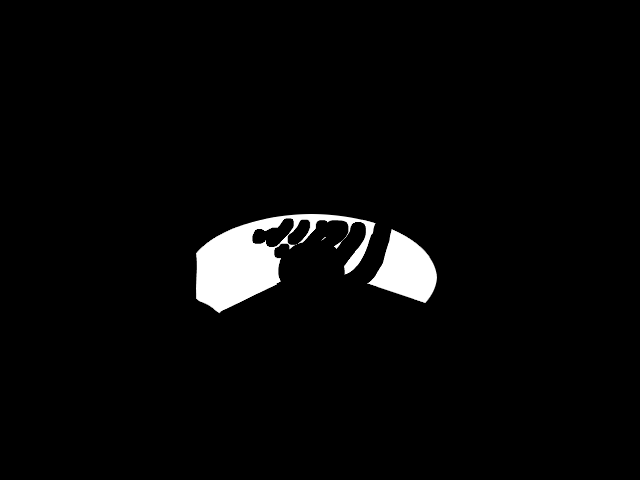
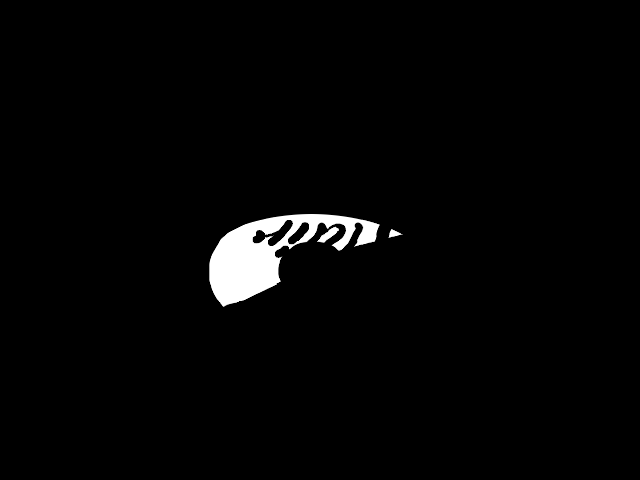
Get reasonably robust dial reading and graph drawing

Changed region(s): [[0.3438, 0.4375, 0.6875, 0.625], [0.2812, 0.5, 0.375, 0.6562]]

diff --git a/python/hq/hardware/flair_pressure.py b/python/hq/hardware/flair_pressure.py
@@ -11,6 +11,7 @@ import os
 import sys
 from math import atan2, degrees
 from subprocess import run
+from random import shuffle
 from time import sleep, time
 from typing import Optional
 from pathlib import Path
@@ -22,7 +23,20 @@ from hq.io_tools import getchar
 CTRL_C = b"\x03"
 BACKSPACE = b"\x7f"
 CLEAR = b"\x0c"
+CURSOR_HOME = "\033[H"
 SPACE = b" "
+
+DIAL_Y_MIN = 214
+DIAL_Y_MAX = 307
+DIAL_X_MIN = 209
+DIAL_X_MAX = 403
+
+ZERO_ANGLE = 189
+NINE_BAR_ANGLE = 40
+DEGREES_PER_BAR = 8
+
+GRAPH_ROWS = 20
+GRAPH_COLS = 60
 
 
 def clear() -> None:
@@ -35,7 +49,12 @@ class FlairPressure:
         Construct the Flair pressure reader
         """
         self.load_dial_mask()
-        self.needle_cetre = np.array((267, 312))
+        self.needle_cetre = np.array((267 - DIAL_Y_MIN, 312 - DIAL_X_MIN))
+        self.pressure_graph = np.full((GRAPH_ROWS + 2, GRAPH_COLS + 2), fill_value="\0")
+        self.pressure_graph[:, 0] = " "
+        self.pressure_graph[1:GRAPH_ROWS:2, 0] = np.arange(9, -1, -1)
+        self.pressure_graph[:, 1] = "|"
+        self.pressure_graph[GRAPH_ROWS, :] = "-"
 
     def capture_frame(self, vid_in: Optional[cv2.VideoCapture] = None) -> np.ndarray:
         """
@@ -91,59 +110,131 @@ class FlairPressure:
                 sleep(interval)
         vid.release()
 
-    def detect_needle_position(self, img: np.ndarray) -> float:
+    def detect_needle_position(self, img: np.ndarray) -> Optional[float]:
         """
         Compute pressure from images of gauge
 
         Returns:
             Current pressure (bar)
         """
+        if img is None:
+            return None
+
         # Convert image to grayscale
-        gray = cv2.cvtColor(src=img, code=cv2.COLOR_BGR2GRAY)
-        cv2.imwrite(filename="/tmp/gray.png", img=gray)
+        # gray = cv2.cvtColor(src=img, code=cv2.COLOR_BGR2GRAY)
+        gray = img[..., 2]  # red channel should minimise red writing visibility
+
+        cropped = gray[DIAL_Y_MIN:DIAL_Y_MAX, DIAL_X_MIN:DIAL_X_MAX, ...]
+
+        # # Decrease contrast
+        # alpha = 0.5
+        # beta = 0
+        # gray = np.clip(gray * alpha + beta, 0, 255).astype(np.uint8)
+
+        equ = cv2.equalizeHist(cropped)
 
         # Blur image to optimise thresholding performance
-        blur = cv2.GaussianBlur(src=gray, ksize=(5, 5), sigmaX=0)
+        # blur = cv2.GaussianBlur(src=gray, ksize=(13, 13), sigmaX=0)
+        blur = cv2.GaussianBlur(src=equ, ksize=(5, 5), sigmaX=0)
 
-        # Increase contrast
-        alpha = 1.2
-        beta = -20
-        blur = np.clip(blur * alpha + beta, 0, 255).astype(np.uint8)
-        cv2.imwrite(filename="/tmp/contrast_blur.png", img=blur)
+        # canny = cv2.Canny(image=equ, threshold1=30, threshold2=100)
+        # canny[self.dial_mask < 255] = 0
+
+        # lines = cv2.HoughLines(
+        #     canny,  # image
+        #     1,  # rho
+        #     np.pi / 360,  # theta
+        #     5,  # threshold
+        #     None,  # srn
+        #     0,  # stn
+        #     0,  # min_theta
+        # )
+
+        # if lines is not None:
+        #     return np.mean([line[0][1] for line in lines])
+        # return None
+
+        cv2.imwrite(filename="/tmp/gray.png", img=gray)
+        cv2.imwrite(filename="/tmp/contrast.png", img=gray)
+        cv2.imwrite(filename="/tmp/blur.png", img=blur)
+        cv2.imwrite(filename="/tmp/equ.png", img=equ)
+        # cv2.imwrite(filename="/tmp/canny.png", img=canny)
+
+        # # Find centre of needle tail
+        # aw = np.argwhere(canny)
+        # if aw.size == 0:
+        #     return None
+        # centroid = np.mean(aw, axis=0).astype(int)
+        # centroid = tuple(reversed(centroid))  # Switch to X, Y instead of Y, X
+
+        # # clahe = cv2.createCLAHE(clipLimit=5)
+        # # equalised = clahe.apply(blur)
 
         # Binarise by thresholding
         # _, binary = cv2.threshold(src=blur, thresh=0, maxval=255, type=cv2.THRESH_OTSU)
-        # _, binary = cv2.threshold(src=blur, thresh=100, maxval=255, type=cv2.THRESH_BINARY)
-        binary = cv2.adaptiveThreshold(
-            # blur, 255, cv2.ADAPTIVE_THRESH_GAUSSIAN_C, cv2.THRESH_BINARY, 11, 7
-            blur, 255, cv2.ADAPTIVE_THRESH_MEAN_C, cv2.THRESH_BINARY, 25, 9
+        _, binary = cv2.threshold(
+            src=blur, thresh=80, maxval=255, type=cv2.THRESH_BINARY
         )
-        cv2.imwrite(filename="/tmp/binary.png", img=binary)
+        # binary = cv2.adaptiveThreshold(
+        #     # blur, 255, cv2.ADAPTIVE_THRESH_GAUSSIAN_C, cv2.THRESH_BINARY, 11, 7
+        #     equ, 255, cv2.ADAPTIVE_THRESH_MEAN_C, cv2.THRESH_BINARY, 25, 11
+        # )
 
         # Mask out everything but the dial
         binary[self.dial_mask == 0] = 255
-        cv2.imwrite(filename="/tmp/masked.png", img=binary)
 
-        # Dilate to remove other end of needle
-        dilated = cv2.dilate(binary, kernel=(17, 17))
-        cv2.imwrite(filename="/tmp/dilated.png", img=dilated)
+        # Erode then dilate to remove noise
+        dilated = cv2.dilate(binary, kernel=np.ones((5, 5)), iterations=1)
 
         # Find centre of needle tail
         centroid = np.mean(np.argwhere(255 - dilated), axis=0).astype(int)
         centroid = tuple(reversed(centroid))  # Switch to X, Y instead of Y, X
+
+        # Get angle of needle from centre spindle
+        direction_vector = centroid - self.needle_cetre
+        angle = degrees(atan2(*direction_vector))
+        if angle < 0:
+            angle = 360 + angle
+
+        # Apply some calibration function to produce a pressure value
+        pressure = max(0, (ZERO_ANGLE - angle) / NINE_BAR_ANGLE * DEGREES_PER_BAR)
+
+        cv2.imwrite(
+            filename="/tmp/centroid.png",
+            img=cv2.line(dilated, centroid, centroid, (255, 0, 0), 2),
+        )
+        cv2.imwrite(filename="/tmp/binary_masked.png", img=binary)
+        cv2.imwrite(filename="/tmp/dilated.png", img=dilated)
         cv2.imwrite(
             filename="/tmp/centroid.png",
             img=cv2.line(dilated, centroid, centroid, (255, 0, 0), 2),
         )
 
-        # Get angle of needle from centre spindle
-        direction_vector = centroid - self.needle_cetre
-        angle = 180 + degrees(atan2(*direction_vector))
-
-        # TODO Apply some calibration function to produce a pressure value
-        pressure = angle
-
         return pressure
+
+    def update_pressures(
+        self, new_pressure: float, new_time: Optional[float] = None
+    ) -> str:
+        """
+        Update and return the ascii plot of pressures
+        """
+        # Shift existing graph
+        self.pressure_graph[:GRAPH_ROWS, 3:] = self.pressure_graph[:GRAPH_ROWS, 2:-1]
+
+        # Write latest timestep
+        self.pressure_graph[:GRAPH_ROWS, 2] = " "
+        self.pressure_graph[GRAPH_ROWS - 1 - int(new_pressure * 2), 2] = "*"
+
+        # Shift old timestamps
+        self.pressure_graph[-1, 3:] = self.pressure_graph[-1, 2:-1]
+        self.pressure_graph[-1, 3] = " "
+        if new_time is not None:
+            self.pressure_graph[-1, 3:5] = list(f"{new_time:2.0f}")
+
+        # Construct string representation
+        return "\n".join(
+            "  " + "".join(line[line != "\0"]) for line in self.pressure_graph
+        )
 
     def detect_needle_position_learned(self) -> float:
         """
@@ -169,24 +260,47 @@ class FlairPressure:
             os.path.join(log_directory, "pressures.log"), mode="w", encoding="utf-8"
         ) as log_fp:
             i = 0
+            pressures = []
+            last_capture_time_int = -1
             while True:
-                i = i + 1
-
                 output_path = os.path.join(log_directory, f"{i}.jpg")
 
                 # Capture and save image
                 img = self.capture_frame(vid_in=vid)
-                cv2.imwrite(filename=output_path, img=img)
+                capture_time = time() - start
+                # cv2.imwrite(filename=output_path, img=img)
 
                 # Compute angle of needle
-                angle = self.detect_needle_position(img=img)
-                sys.stdout.write(f"\rTime: {time() - start:.2f}, angle {angle:.2f}")
-                log_fp.write(f"{angle}\n")
+                pressure = self.detect_needle_position(img=img)
+                if pressure is not None:
+                    pressures.append(pressure)
+
+                capture_time_int = int(capture_time)
+                if capture_time_int != last_capture_time_int:
+                    avg_pressure = np.mean(pressures) if pressures else 0
+                    pressure_graph = self.update_pressures(
+                        new_pressure=avg_pressure,
+                        new_time=capture_time if capture_time_int % 5 == 0 else None,
+                    )
+                    sys.stdout.write(CURSOR_HOME + "\n" * 2 + pressure_graph + "\n" * 2)
+                    pressures = []
+                    last_capture_time_int = capture_time_int
+
+                pressure_str = f"{pressure:.2f}" if pressure is not None else "N/A"
+                sys.stdout.write(
+                    f"\r  Time: {capture_time:.2f}, Pressure: {pressure_str} bar"
+                )
+                log_fp.write(f"{pressure}\n")
+
+                i += 1
 
         vid.release()
 
     def load_dial_mask(self) -> None:
-        mask_path = os.path.expanduser("~/src/hq/etc/flair_pressure/dial_mask.png")
+        # mask_path = os.path.expanduser("~/src/hq/etc/flair_pressure/dial_mask.png")
+        mask_path = os.path.expanduser(
+            "~/src/hq/etc/flair_pressure/dial_mask_cropped.png"
+        )
         mask = cv2.imread(mask_path)
         if mask is None:
             raise ValueError(f"Could not load mask at {mask_path}")
@@ -196,17 +310,23 @@ class FlairPressure:
 if __name__ == "__main__":
     pressure_monitor = FlairPressure()
 
-    pressure_monitor.collect_data(output_directory="/tmp/flair_pressure_logs_2", interval=0.01)
+    # pressure_monitor.collect_data(output_directory="/tmp/flair_pressure_logs_2", interval=0.01)
 
     # pressure_monitor.detect_needle_position(
     #     img=pressure_monitor.capture_frame(),
     # )
 
-    # pressure_monitor.cli_main()
+    pressure_monitor.cli_main()
 
-    # for path in sorted(Path("/tmp/flair_pressure_logs/").iterdir()):
-    #     img = cv2.imread(str(path))
-    #     pressure_monitor.detect_needle_position(img=img)
+    # paths = list(Path("/home/pi/src/hq/etc/flair_pressure/datasets/regression").iterdir())
+    # # shuffle(paths)
+    # # for path in paths:
+    # for i in range(106, 400):
+    #     # print(path)
+    #     print(i)
+    #     # img = cv2.imread(str(path))
+    #     img = cv2.imread(f"/home/pi/src/hq/etc/flair_pressure/datasets/regression/{i}.jpg")
+    #     print(pressure_monitor.detect_needle_position(img=img))
     #     input()
 
     sys.exit(0)
